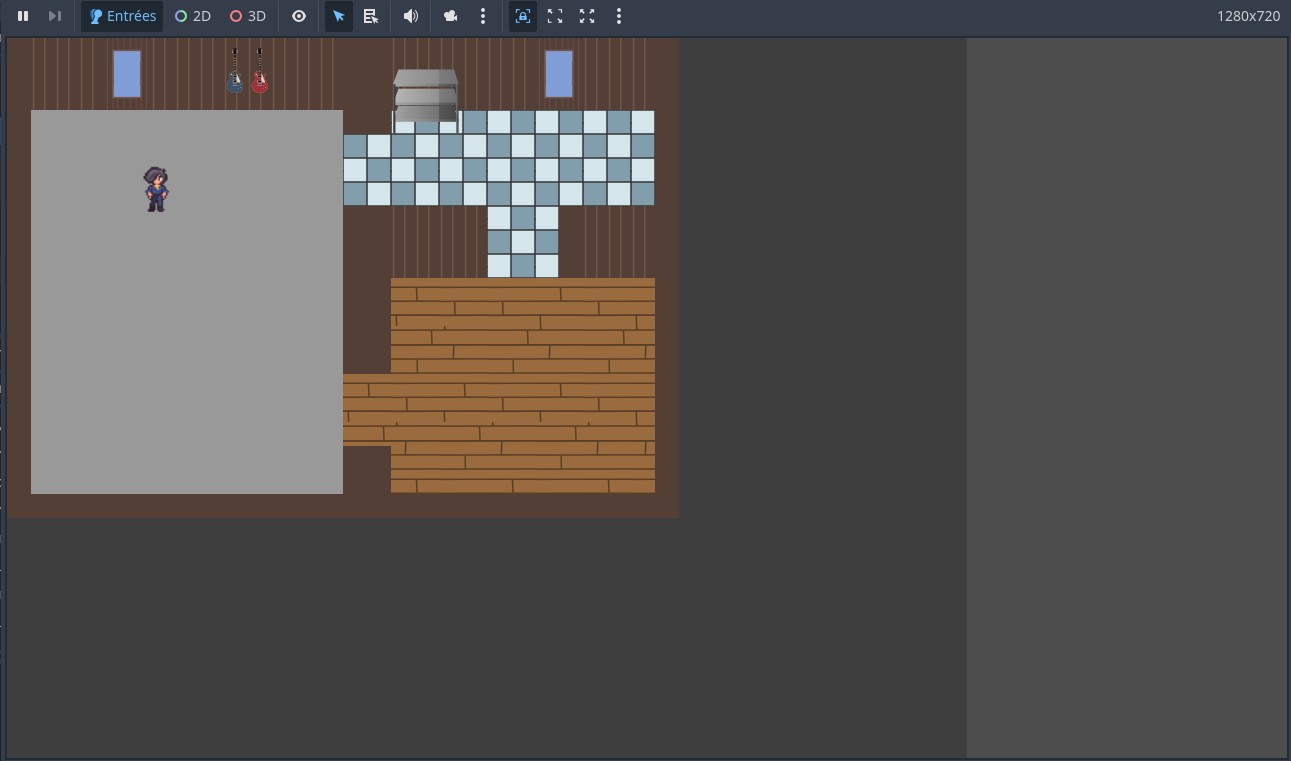
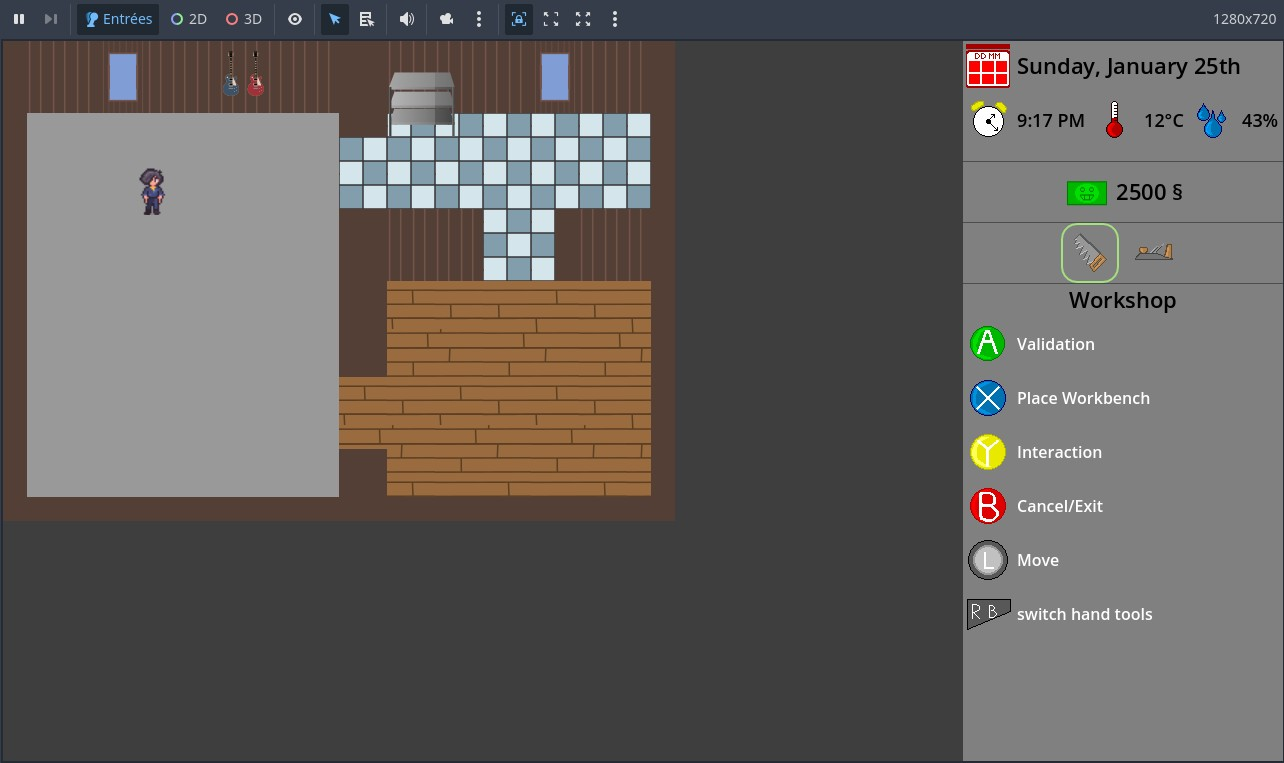
chore: update README, ROADMAP and add new screenshots

diff --git a/README.md b/README.md
@@ -2,13 +2,12 @@
 A hands-on journey into lutherie
 
 🎥 Demo video  
-<!--https://github.com/vince-bourgmayer/MyMusicalWorkbench/raw/main/screenshots/MyMusicalWorkbench_demo_27012026_compressed.mp4-->
-https://github.com/vince-bourgmayer/MyMusicalWorkbench/raw/refs/heads/feat-right-panel/screenshots/MyMusicalWorkbench_demo_27012026_compressed.mp4
+https://github.com/vince-bourgmayer/MyMusicalWorkbench/raw/main/screenshots/MyMusicalWorkbench_demo_27012026_compressed.mp4
 
 Early prototype screenshot
 
 ![World](screenshots/step4.jpg)
-![Handsaw](screenshots/step10.jpg)
+![Handsaw](screenshots/step7.jpg)
 ![Handplane](screenshots/hand_plane_screenshot.jpg)
 
 ## What it is
@@ -40,7 +39,7 @@ Through lutherie-inspired gameplay, it aims to share an experience that values e
 Early prototype / design phase.  
 The project is currently focused on core mechanics and experimentation.
 
-🔧 Current focus: Controls UX  
+🔧 Current focus: Workshop Systems  
 🧭 Overall direction and planned milestones are described in [ROADMAP.md](ROADMAP.md).
 
 ## Concept, Design & Creative Direction :

diff --git a/ROADMAP.md b/ROADMAP.md
@@ -7,8 +7,8 @@ Only one milestone is considered active at a time.
 
 ## Current Focus
 
-▶ Controls UX
-  Display a panel with controls & corresponding action
+▶ Workshop Systems  
+  Time, climate, and environmental simulation affecting materials.
 
 ---
 
@@ -17,23 +17,23 @@ Only one milestone is considered active at a time.
 - TemplatingGame V0  
   Template placement and material optimization before cutting.
 
-- Workshop Systems  
-  Time, climate, and environmental simulation affecting materials.
-
 - HandsawGame V1
   Workbench integration, and wood piece manipulation to expose edge to cut.
-
-- Prototype: Workshop and character's movement
 
 ---
 
 ## Completed Milestones
+
+- Controls UX
+  Display a panel with controls & corresponding action
 
 - HandPlaneGame V0  
   Manual hand planing mini-game focusing on gesture, feedback, and material interaction.
 
 - HandsawGame V0  
   Saw placement and cut simulation on a wood piece
+
+- Prototype: Workshop and character's movement
 
 ---
 
